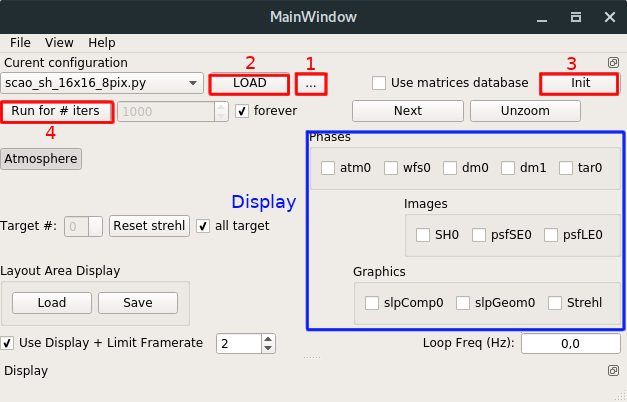
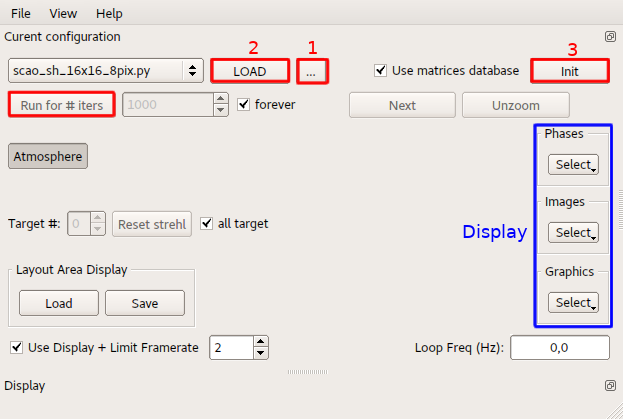
Change widget gif

diff --git a/news.html b/news.html
@@ -1,0 +1,11 @@
+---
+layout: default
+title: COMPASS news
+---
+	<h1>{{ page.title }}</h1>
+	<ul class="posts">
+
+	  {% for post in site.posts %}
+	    <li><span>{{ post.date | date_to_string }}</span> » <a href="{{ post.url }}" title="{{ post.title }}">{{ post.title }}</a></li>
+	  {% endfor %}
+	</ul>

diff --git a/_layouts/post.html b/_layouts/post.html
@@ -1,0 +1,9 @@
+---
+layout: default
+---
+<h1>{{ page.title }}</h1>
+<p class="meta">{{ page.date | date_to_string }}</p>
+
+<div class="post">
+  {{ content }}
+</div>

diff --git a/manual.md b/manual.md
@@ -216,7 +216,7 @@ To start your simulation, follows those steps:
 #### Display management
 ![display](images/gui_display.png){:width="600px"}
 
-By default, nothing is displayed when you launched the simulation. You can choose what to display by cheking the corresponding boxes. Then, you can rearrange the displays as you wish by drag and drop. You can also detach the display area from the main window by clicking the button in the bottom right corner of the main window.
+By default, nothing is displayed when you launched the simulation. You can choose what to display by cheking the corresponding boxes in the drop down menus. Then, you can rearrange the displays as you wish by drag and drop. You can also detach the display area from the main window by clicking the button in the bottom right corner of the main window.
 
 You have also the possibility to save your layout area disposition. Once you have organized your display area, press the *Save* button of the *Layout Area Display*. You will be able to load it for further simulations with the *Load* button.
 

diff --git a/_posts/2018-01-18-site-release.md b/_posts/2018-01-18-site-release.md
@@ -1,0 +1,8 @@
+---
+layout: post
+title:  "Site release"
+date:   2018-01-18
+---
+Finally, we did it!! Here is the all the informations you need concerning COMPASS, including installation instructions and an user manual.
+We will continue to update this site as we are still developping the platform. 
+All important update on the Git repository will be detailed on the News page: follow it to get informed of each new feature or bug resolution!
